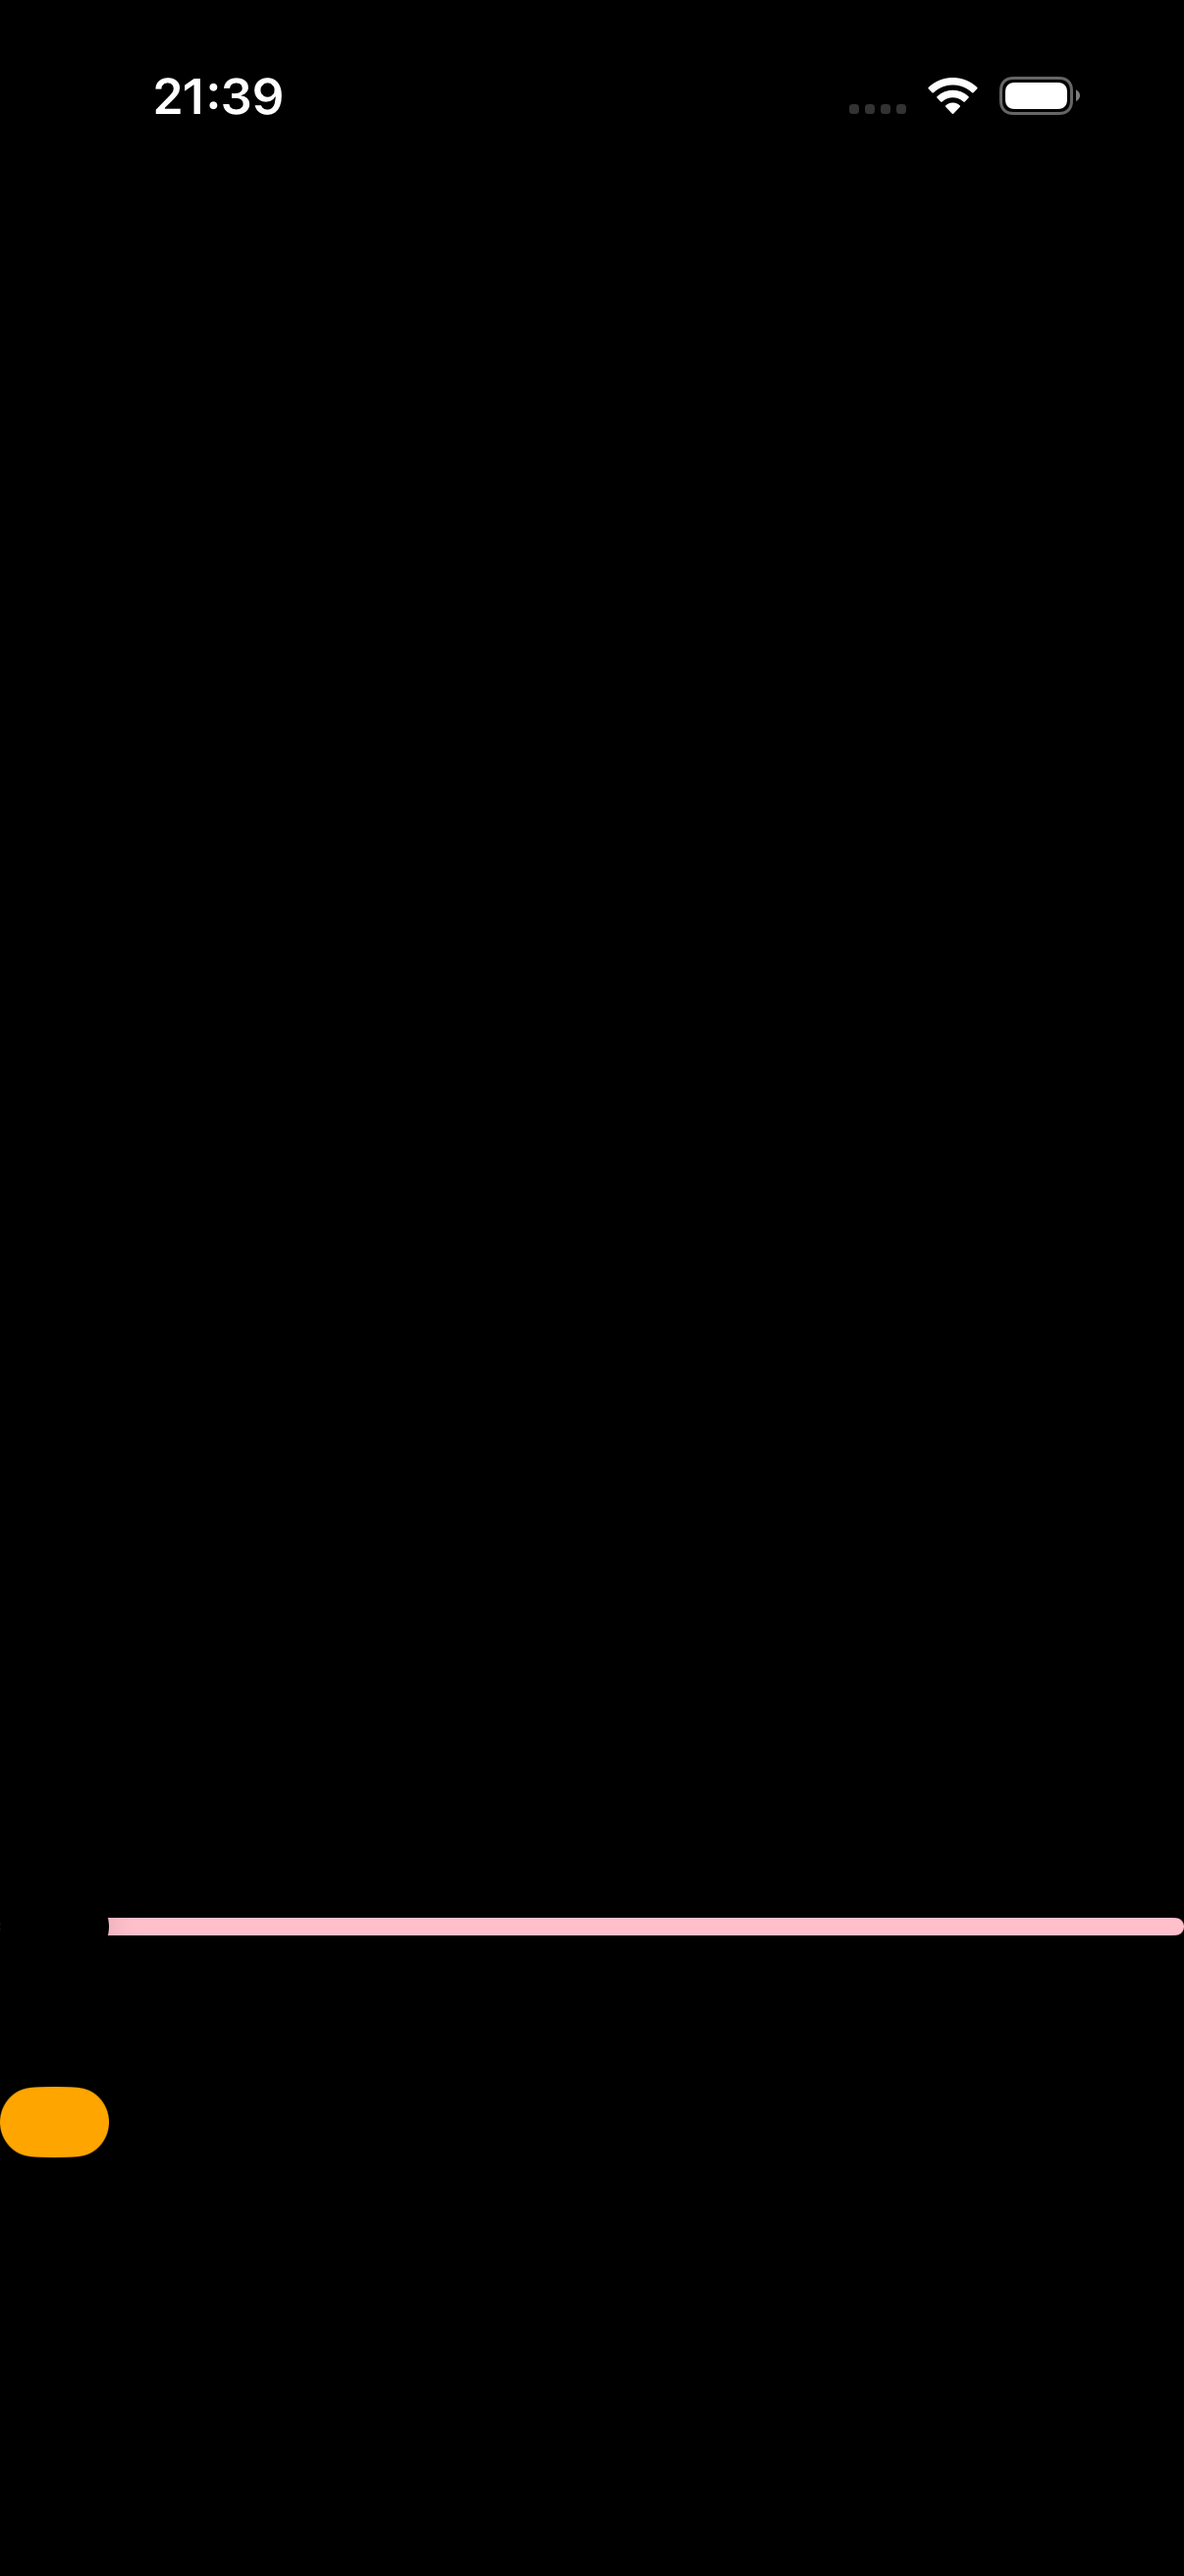
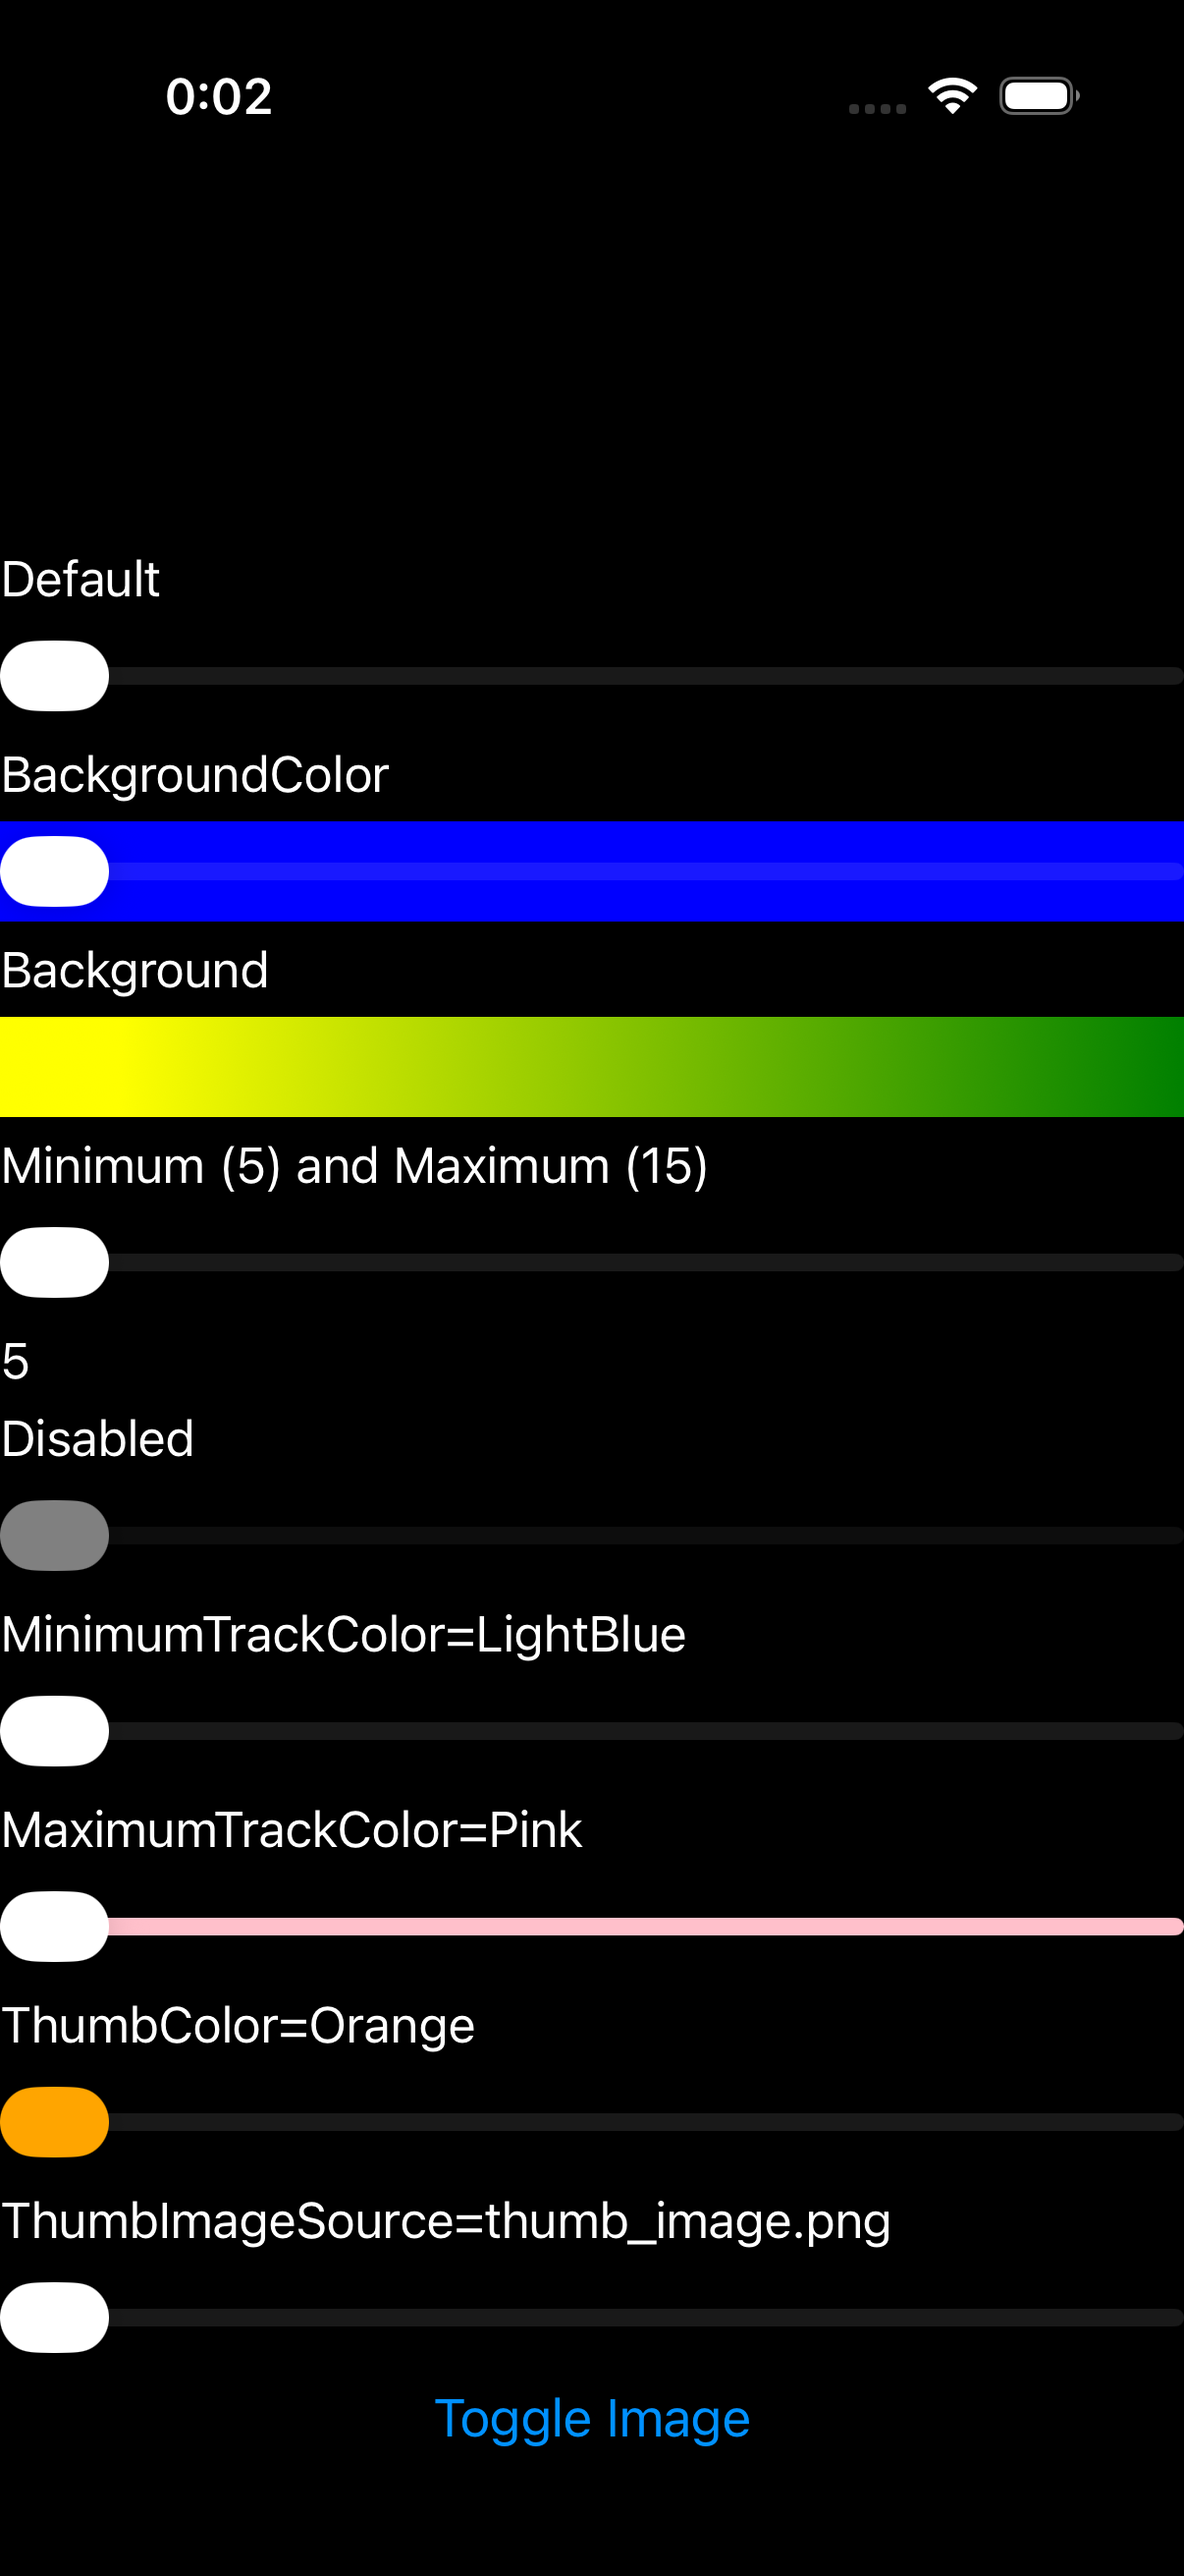
fix(ios,parity): Slider renders native default thumb/track + BackgroundColor band
example 10/172 (slider): the page was broken — default sliders showed no thumb/track
(only explicitly-colored ones rendered) and the BackgroundColor/Background bands were
absent. Two fixes:

1. Unset Thumb/Minimum/MaximumTrackColor forced to_ui_color(default) — a transparent
   tint that hid the UISlider's native default white thumb + gray track. Now an unset
   color maps to nil, restoring the system default (SliderExtensions' null branch is a
   no-op). Covers map_{minimum,maximum}_track_color + map_thumb_color + the post-image
   thumb-color restore.
2. Slider deferred update_background (no band behind the track). Added it: a UISlider
   has no bezel, so apply_background paints the band directly — solid fills the layer,
   gradient installs a sublayer that the new MauiIosSlider.layoutSubviews re-sizes via
   resize_background_layers. BackgroundColor=Blue + Background=gradient now render.

Verified: all sliders render native thumbs/tracks + colored bands matching MAUI both
themes (sim-captured); 15 slider ios tests pass; clang-tidy 0 (build/ios). Tracker:
slider diff->minor (10 minor).

Changed region(s): [[0.0, 0.2162, 1.0, 0.9577], [0.1227, 0.0309, 0.2454, 0.0618], [0.2148, 0.7105, 0.2454, 0.7414]]

diff --git a/port/cpp/src/platform/ios/slider_handler.mm b/port/cpp/src/platform/ios/slider_handler.mm
@@ -23,6 +23,7 @@
 #include <string_view>
 
 #include "ios_conversions.hpp"
+#include "ios_visual_ops.hpp"
 #include "maui/core/i_image_source.hpp"
 #include "maui/core/i_ios_slider_specifics.hpp"
 #include "maui/core/i_slider.hpp"
@@ -32,6 +33,21 @@
 #include "maui/core/visibility.hpp"
 #include "maui/graphics/rect.hpp"
 #include "maui/graphics/size.hpp"
+
+// MauiIosSlider — the UISlider the handler presents. Its layoutSubviews override re-sizes any gradient/
+// image background sublayer apply_background installed (a solid BackgroundColor needs no resize — it is the
+// backing layer's backgroundColor), so a Background brush fills the band behind the track and tracks bounds.
+// apply_background runs before arrange, when bounds is zero, so without this hook a gradient stays invisible.
+@interface MauiIosSlider : UISlider
+@end
+
+@implementation MauiIosSlider
+- (void)layoutSubviews
+{
+    [super layoutSubviews];
+    maui::platform::ios::resize_background_layers((__bridge void*)self);
+}
+@end
 
 // Obj-C trampoline: forwards the UISlider's control events to the C++ handler's virtual view — the
 // SliderProxy port (ValueChanged / TouchDown / TouchUp).
@@ -190,10 +206,18 @@ namespace maui::core
         as_slider(native).accessibilityIdentifier = raw != nil ? raw : @"";
     }
 
+    void slider_platform::update_background(const maui::graphics::paint* value)
+    {
+        // A UISlider has no bezel, so its BackgroundColor / Background brush shows as a band behind the
+        // track: the shared helper paints a solid color onto the backing layer or installs a gradient/image
+        // sublayer (MauiIosSlider.layoutSubviews re-sizes the gradient to bounds). A null paint clears it.
+        maui::platform::ios::apply_background(native, value);
+    }
+
     std::unique_ptr<slider_platform> slider_handler::create_platform_view()
     {
         auto platform = std::make_unique<slider_platform>();
-        UISlider* const native = [[UISlider alloc] initWithFrame:CGRectZero];
+        UISlider* const native = [[MauiIosSlider alloc] initWithFrame:CGRectZero];
         native.continuous = YES;                            // CreatePlatformView: new UISlider { Continuous = true }
         platform->native = (__bridge_retained void*)native; // the void* slot owns one reference
         return platform;
@@ -264,8 +288,12 @@ namespace maui::core
     {
         if (auto* platform = handler.typed_platform_view())
         {
-            // SliderExtensions.UpdateMinimumTrackColor (the null guard collapses).
-            as_slider(platform->native).minimumTrackTintColor = to_ui_color(view.minimum_track_color());
+            // SliderExtensions.UpdateMinimumTrackColor: an unset (default-constructed) color must leave the
+            // UISlider's native default tint, NOT force a transparent fill — to_ui_color(unset) is a clear
+            // color that hides the track. nil restores the system default (the C# null branch is a no-op).
+            const maui::graphics::color color = view.minimum_track_color();
+            as_slider(platform->native).minimumTrackTintColor =
+                color != maui::graphics::color{} ? to_ui_color(color) : nil;
         }
     }
 
@@ -273,16 +301,20 @@ namespace maui::core
     {
         if (auto* platform = handler.typed_platform_view())
         {
-            // SliderExtensions.UpdateMaximumTrackColor (the null guard collapses).
-            as_slider(platform->native).maximumTrackTintColor = to_ui_color(view.maximum_track_color());
+            // SliderExtensions.UpdateMaximumTrackColor: unset leaves the native default gray track (nil),
+            // not a transparent fill (to_ui_color(unset) would hide it).
+            const maui::graphics::color color = view.maximum_track_color();
+            as_slider(platform->native).maximumTrackTintColor =
+                color != maui::graphics::color{} ? to_ui_color(color) : nil;
         }
     }
 
     void slider_handler::map_thumb_color(slider_handler& handler, i_slider& view)
     {
         // SliderExtensions.UpdateThumbColor: when a ThumbImageSource is set, the image wins (re-run the
-        // image map so the thumb image — not the tint — is applied); otherwise push the color tint (the
-        // null guard collapses — non-nullable color). Mirrors C#'s UpdateThumbColor branch.
+        // image map so the thumb image — not the tint — is applied); otherwise push the color tint. An unset
+        // ThumbColor must leave the native default thumb (the white pill), so map it to nil rather than a
+        // transparent tint (to_ui_color(unset) would make the thumb invisible).
         if (view.thumb_image_source() != nullptr && !view.thumb_image_source()->is_empty())
         {
             map_thumb_image_source(handler, view);
@@ -290,7 +322,8 @@ namespace maui::core
         }
         if (auto* platform = handler.typed_platform_view())
         {
-            as_slider(platform->native).thumbTintColor = to_ui_color(view.thumb_color());
+            const maui::graphics::color color = view.thumb_color();
+            as_slider(platform->native).thumbTintColor = color != maui::graphics::color{} ? to_ui_color(color) : nil;
         }
     }
 
@@ -364,7 +397,10 @@ namespace maui::core
         UISlider* const slider = as_slider(platform.native);
         [slider setThumbImage:nil forState:UIControlStateNormal];
         platform.thumb_image_set = false;
-        slider.thumbTintColor = maui::platform::ios::to_ui_color(view.thumb_color());
+        // Restore the thumb color (UpdateThumbColor): an unset color leaves the native default white thumb
+        // (nil), not a transparent tint that would make it invisible.
+        const maui::graphics::color thumb = view.thumb_color();
+        slider.thumbTintColor = thumb != maui::graphics::color{} ? maui::platform::ios::to_ui_color(thumb) : nil;
         // iOS 26+: SetThumbImage(nil) likewise needs an explicit layout pass (unconditional, harmless pre-26).
         [slider setNeedsLayout];
     }

diff --git a/port/cpp/include/maui/core/slider_handler.hpp b/port/cpp/include/maui/core/slider_handler.hpp
@@ -88,6 +88,9 @@ namespace maui::core
         void update_opacity(double value) override;
         void update_is_enabled(bool value) override;
         void update_automation_id(std::string_view value) override;
+        // BackgroundColor / Background brush IS pushed to the UISlider — a band behind the track (the shared
+        // apply_background; MauiIosSlider.layoutSubviews keeps a gradient/image fill sized to bounds).
+        void update_background(const maui::graphics::paint* value) override;
 #endif
     };
 

diff --git a/port/cpp/docs/comparison/README.md b/port/cpp/docs/comparison/README.md
@@ -2,7 +2,7 @@
 
 Theme-matched iOS comparison: each page rendered by **real .NET MAUI** vs the **C++ port**, on the same iPhone 17 simulator, compared **light-vs-light** and **dark-vs-dark**. Both stacks render native-default controls + the system font (the C# app's `dotnet new maui` default `Styles.xaml` + OpenSans are stripped; appearance forced via `MAUI_THEME` / `MAUI_APPEARANCE`). Goal: pixel-perfect parity, fixed example-by-example.
 
-**Progress: 0 / 172 🟢 matched** · 9 🟡 minor · 56 🔴 diff · 107 ⬜ pending
+**Progress: 0 / 172 🟢 matched** · 10 🟡 minor · 55 🔴 diff · 107 ⬜ pending
 
 Status legend: 🟢 pixel-match (both themes) · 🟡 minor diff · 🔴 notable diff to fix · ⬜ not yet reviewed. Per-theme verdicts in `parity_status.json`.
 
@@ -21,7 +21,7 @@ Rows are in **fix order** (top → bottom): foundational single controls first (
 | 7 | Date Picker | 🟡<br>L:minor<br>D:minor | ![](csharp_ios_light/date_picker.png) | ![](cpp_ios_light/date_picker.png) | ![](csharp_ios_dark/date_picker.png) | ![](cpp_ios_dark/date_picker.png) |
 | 8 | Time Picker | 🟡<br>L:minor<br>D:minor | ![](csharp_ios_light/time_picker.png) | ![](cpp_ios_light/time_picker.png) | ![](csharp_ios_dark/time_picker.png) | ![](cpp_ios_dark/time_picker.png) |
 | 9 | Pickers | 🟡<br>L:minor<br>D:minor | ![](csharp_ios_light/pickers.png) | ![](cpp_ios_light/pickers.png) | ![](csharp_ios_dark/pickers.png) | ![](cpp_ios_dark/pickers.png) |
-| 10 | Slider | 🔴<br>L:diff<br>D:diff | ![](csharp_ios_light/slider.png) | ![](cpp_ios_light/slider.png) | ![](csharp_ios_dark/slider.png) | ![](cpp_ios_dark/slider.png) |
+| 10 | Slider | 🟡<br>L:minor<br>D:minor | ![](csharp_ios_light/slider.png) | ![](cpp_ios_light/slider.png) | ![](csharp_ios_dark/slider.png) | ![](cpp_ios_dark/slider.png) |
 | 11 | Stepper | 🔴<br>L:diff<br>D:diff | ![](csharp_ios_light/stepper.png) | ![](cpp_ios_light/stepper.png) | ![](csharp_ios_dark/stepper.png) | ![](cpp_ios_dark/stepper.png) |
 | 12 | Switch | ⬜<br>L:pending<br>D:pending | ![](csharp_ios_light/switch.png) | ![](cpp_ios_light/switch.png) | ![](csharp_ios_dark/switch.png) | ![](cpp_ios_dark/switch.png) |
 | 13 | Check Box | 🔴<br>L:diff<br>D:diff | ![](csharp_ios_light/check_box.png) | ![](cpp_ios_light/check_box.png) | ![](csharp_ios_dark/check_box.png) | ![](cpp_ios_dark/check_box.png) |
